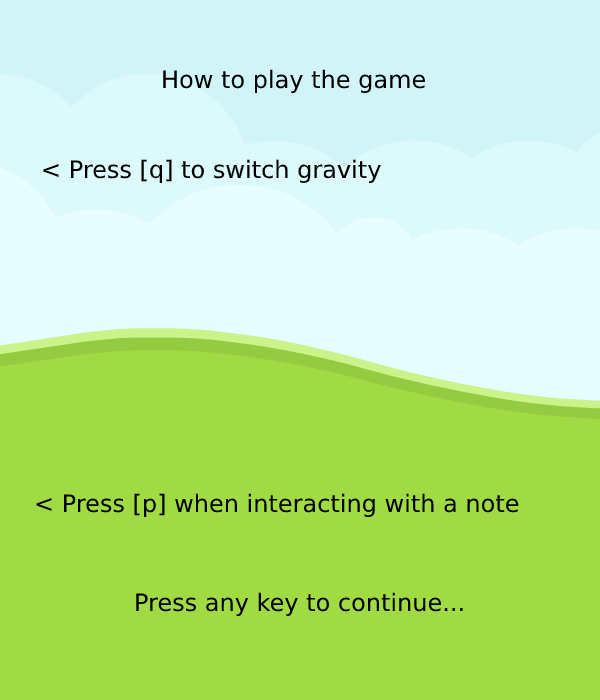
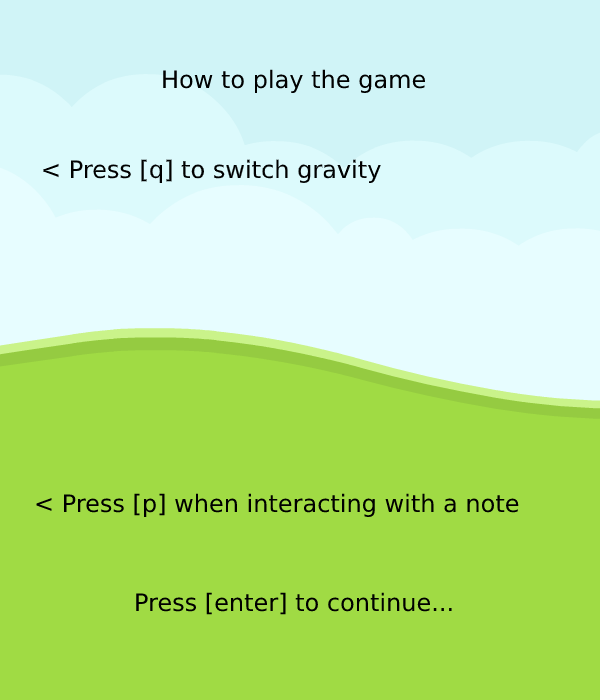
changed how to play to enter

Changed region(s): [[0.33, 0.84, 0.75, 0.9]]

diff --git a/HowToPlay.java b/HowToPlay.java
@@ -52,6 +52,8 @@ public class HowToPlay extends JPanel {
     }
 
     public void keyPressed(KeyEvent e){
-        drawScreen++;
+        if(e.getKeyCode() == KeyEvent.VK_ENTER) {
+            drawScreen++;
+        }
     }
 }
